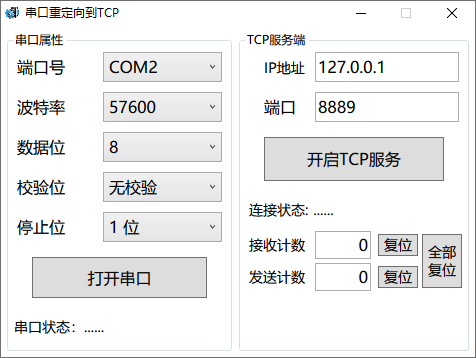
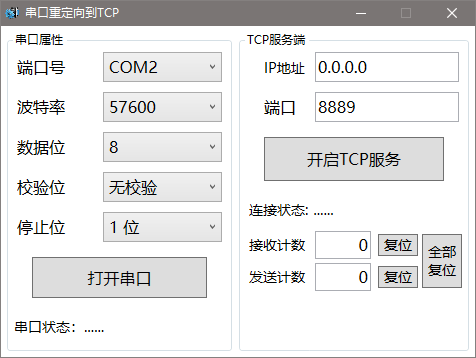
将默认IP修改为0.0.0.0

diff --git a/COM BY TCP/MainWindow.xaml b/COM BY TCP/MainWindow.xaml
@@ -73,7 +73,7 @@
                     </Grid.ColumnDefinitions>
                     <TextBlock Grid.Row="0" Grid.Column="0" HorizontalAlignment="Left" VerticalAlignment="Center" FontSize="14" Text="IP地址" Margin="20, 0, 0, 0" />
                     <TextBlock Grid.Row="1" Grid.Column="0" HorizontalAlignment="Left" VerticalAlignment="Center" FontSize="16" Text="端口" Margin="20, 0, 0, 0" />
-                    <TextBox Grid.Row="0" Grid.Column="1" Margin="5,5,5,5" HorizontalAlignment="Stretch" FontSize="16" VerticalContentAlignment="Center" Name="txtIPAddr" >127.0.0.1</TextBox>
+                    <TextBox Grid.Row="0" Grid.Column="1" Margin="5,5,5,5" HorizontalAlignment="Stretch" FontSize="16" VerticalContentAlignment="Center" Name="txtIPAddr" >0.0.0.0</TextBox>
                     <TextBox Grid.Row="1" Grid.Column="1" Margin="5,5,5,5" HorizontalAlignment="Stretch" FontSize="16" VerticalContentAlignment="Center" Name="txtPort" >8889</TextBox>                
                 </Grid>
                 <Button Grid.Row="1" Grid.Column="0" Margin="20,10,20,10" VerticalAlignment="Stretch"  FontSize="16"  Content="开启TCP服务" Name="btnStartTCPServer" Click="btn_Click"/>
